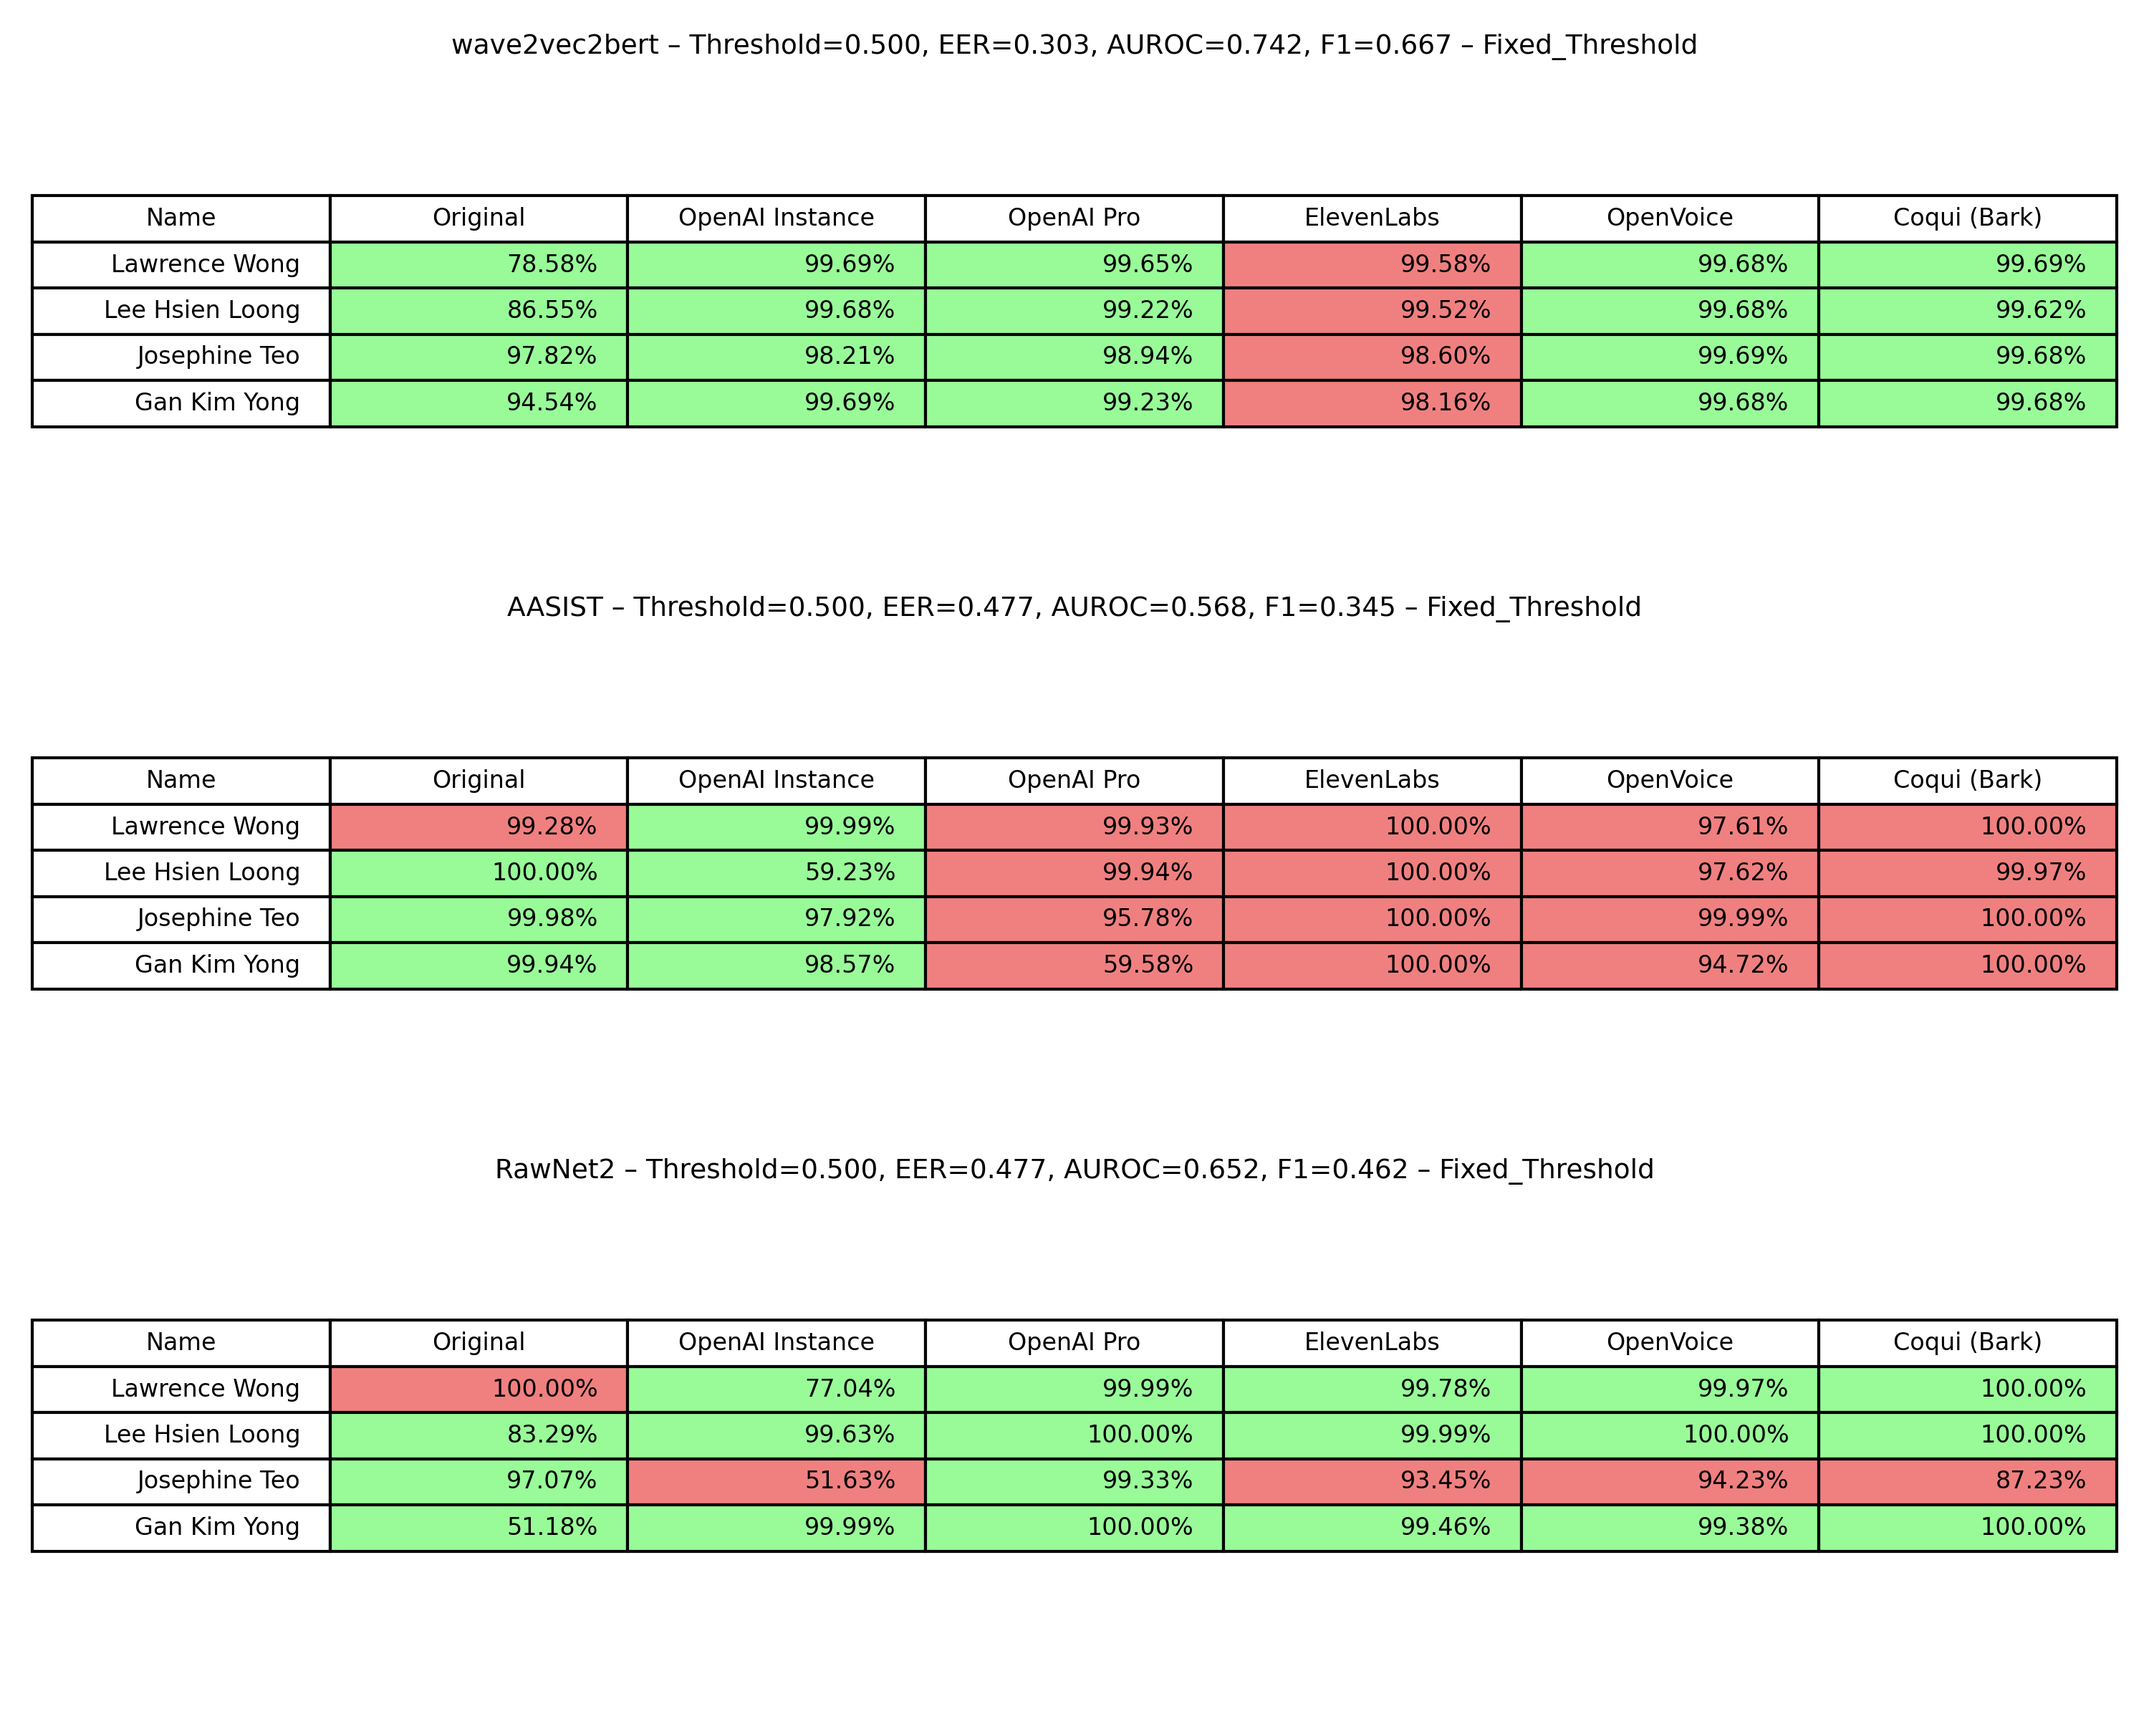
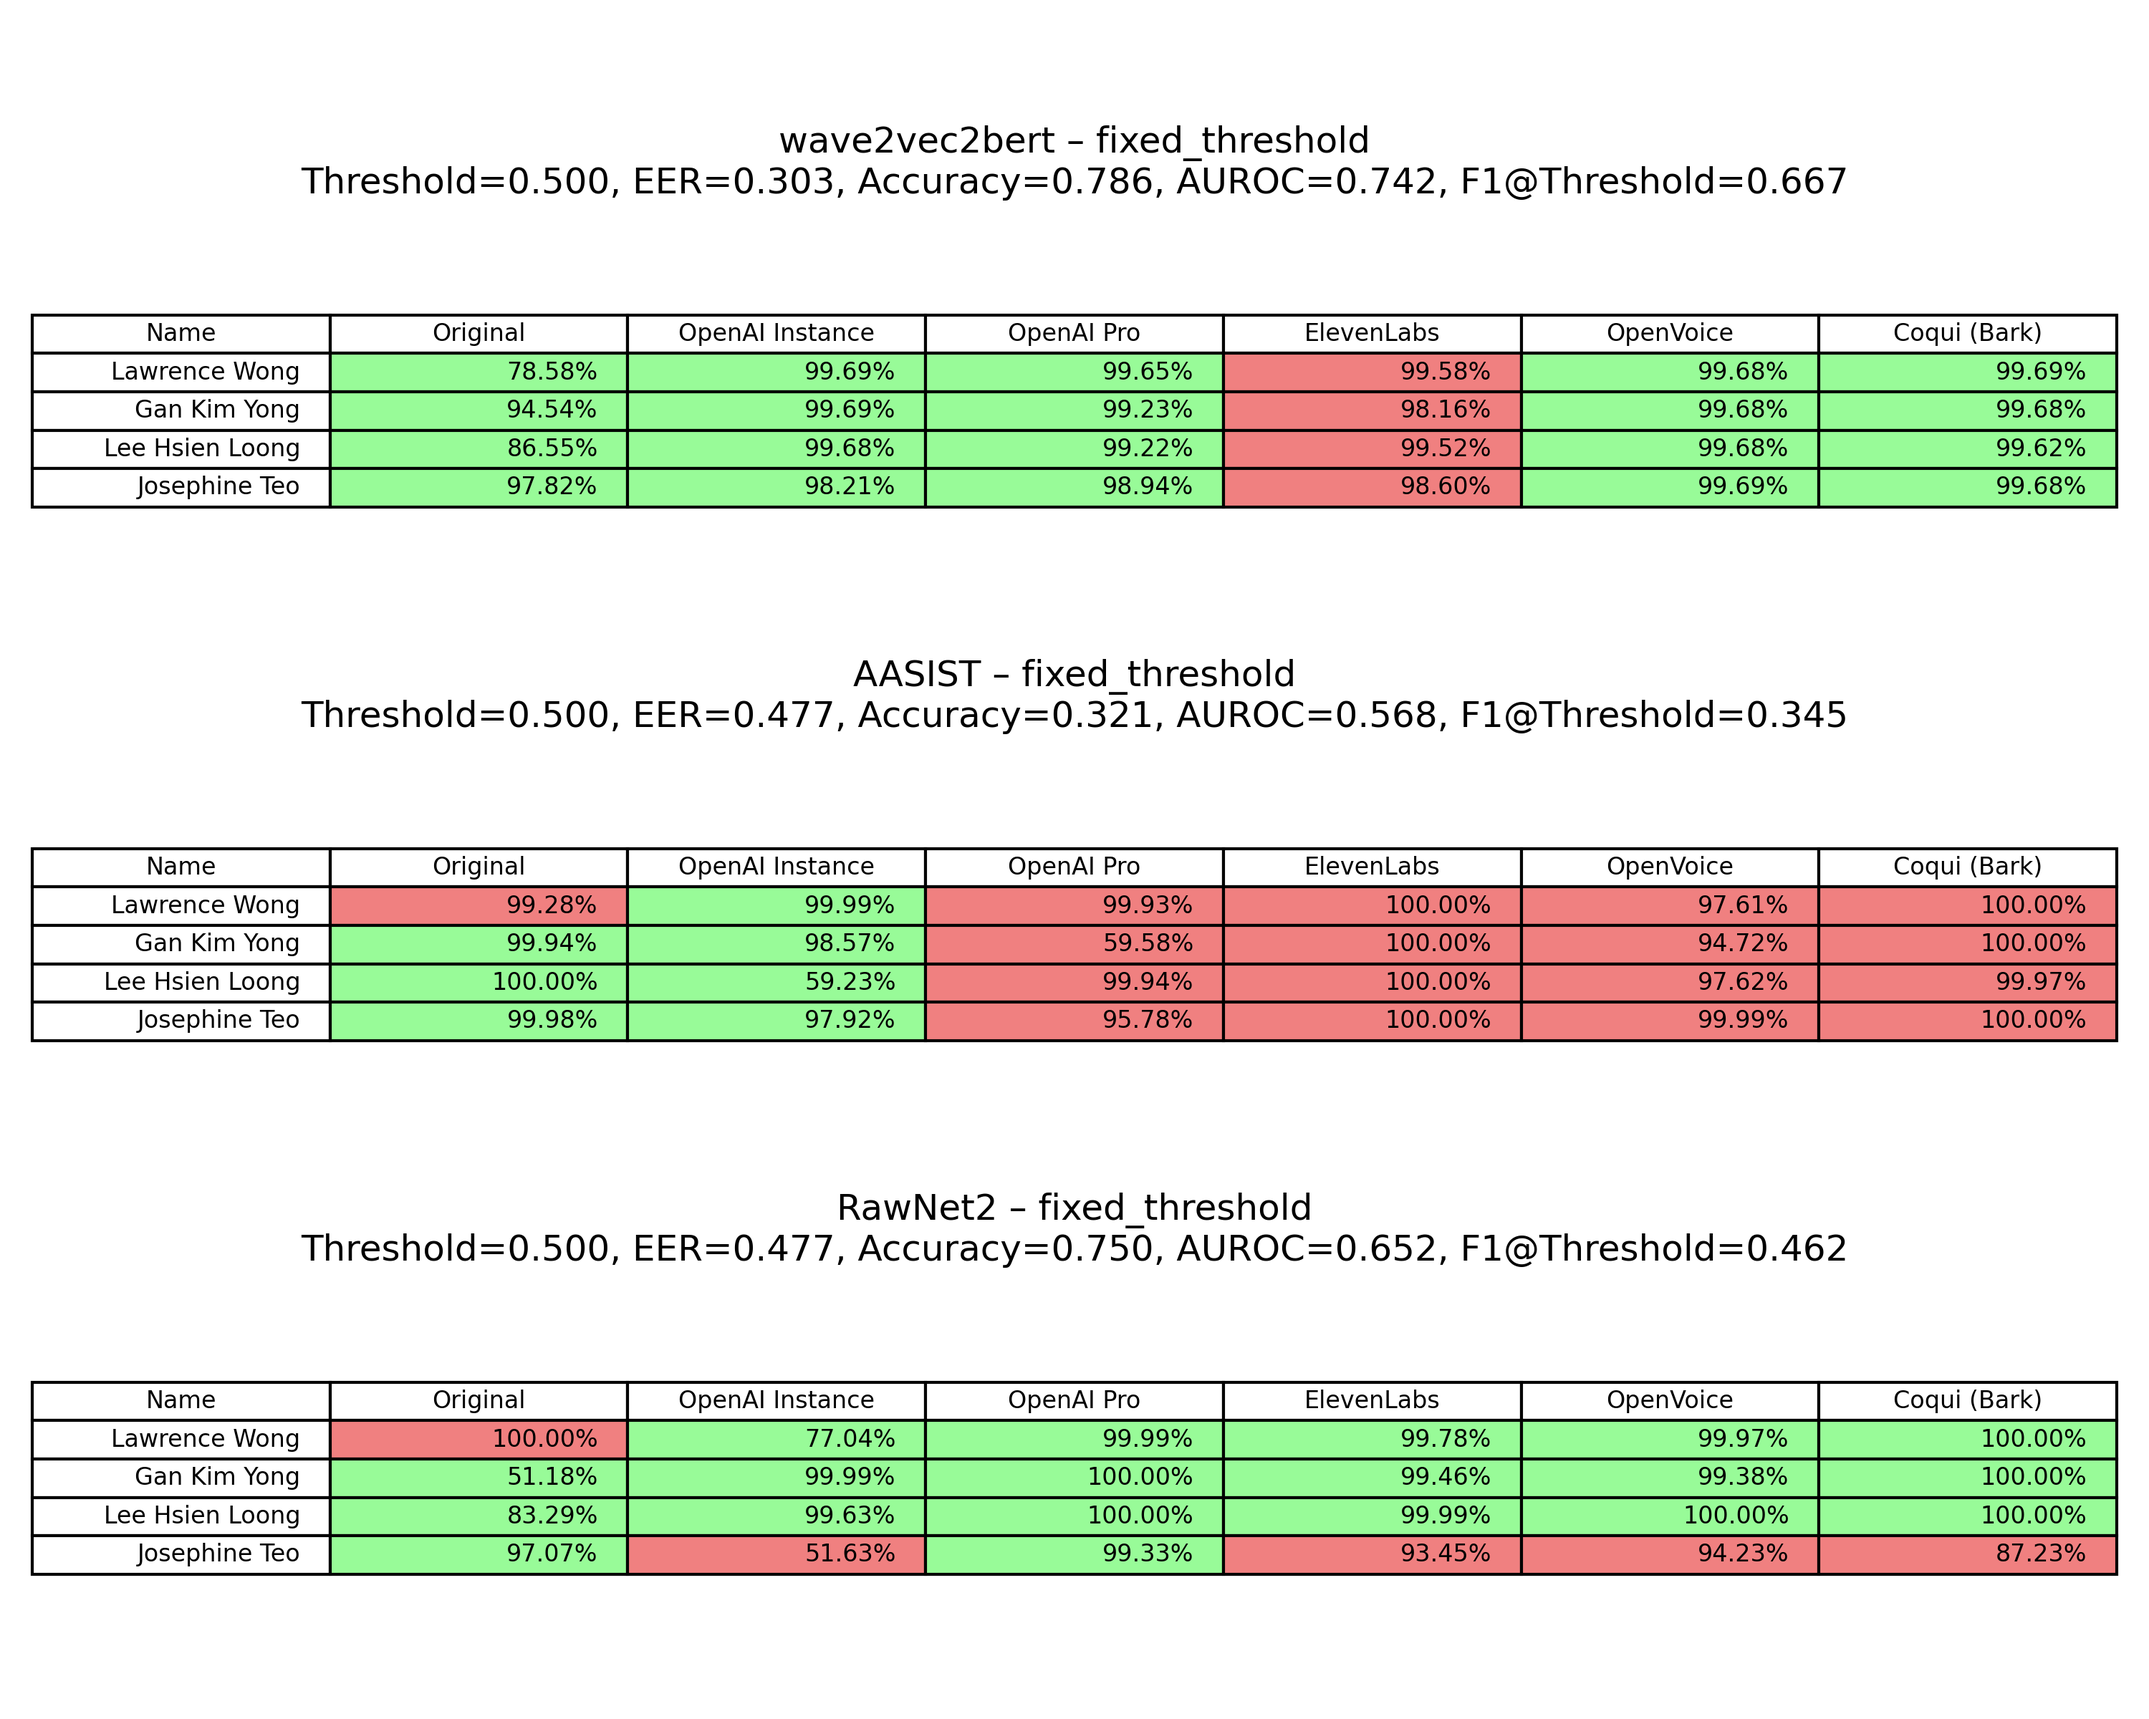
table formatting

diff --git a/zihe_eval.py b/zihe_eval.py
@@ -9,7 +9,7 @@ from torch.utils.data import Dataset, DataLoader
 from transformers import AutoFeatureExtractor
 import numpy as np
 from tqdm import tqdm
-from sklearn.metrics import roc_auc_score, f1_score  # ← added f1_score
+from sklearn.metrics import roc_auc_score, f1_score, accuracy_score
 import torch.nn.functional as F
 
 # Import existing modules
@@ -590,6 +590,7 @@ def _build_block(title, threshold_type, eer, thr, file_paths, preds, probs, labe
     # --- Compute overall AUROC and F1 for this model -------------------------
     auroc = roc_auc_score(labels, probs)
     f1 = f1_score(labels, preds)
+    acc = accuracy_score(labels, preds)  # ← compute accuracy
 
     data = {sid: defaultdict(list) for sid in _SPK}
     correct = {sid: defaultdict(list) for sid in _SPK}
@@ -611,6 +612,7 @@ def _build_block(title, threshold_type, eer, thr, file_paths, preds, probs, labe
         "threshold": float(thr),
         "auroc": float(auroc),  # ← added
         "f1": float(f1),  # ← added
+        "acc": float(acc),
         "data": {
             sid: {
                 m: (float(np.mean(vals)), bool(all(correct[sid][m])))
@@ -669,27 +671,34 @@ def _canon(m: str) -> str:
 def plot_result_tables(result_blocks, outfile: str = "tables.png") -> None:
     """
     Draw one coloured table per *result_blocks* element (see _build_block()).
-    Header now shows AUROC and F1 as requested.
+
+    Figure title  : “Results and Confidence Scores”
+    Row order     : Lawrence Wong, Gan Kim Yong, Lee Hsien Loong, Josephine Teo
+    Heading lines :   {model_name} – {threshold_type}
+                      Thr={thr:.3f}, EER={eer:.3f}, AUROC={auroc:.3f}, F1@Thr={f1:.3f}
     """
-    speakers = ("lw", "lhl", "jt", "gky")
+    import matplotlib.pyplot as plt
+
+    # ── 1. CONFIG ────────────────────────────────────────────────────────────
+    speakers = ("lw", "gky", "lhl", "jt")  # ← reordered to match screenshot
+
+    # ── 2. CREATE FIGURE ─────────────────────────────────────────────────────
     n = len(result_blocks)
     fig, axs = plt.subplots(n, 1, figsize=(10, 2 + 2 * n))
-    if n == 1:  # make iterable for n=1
-        axs = (axs,)
+    if n == 1:
+        axs = (axs,)  # make iterable for single-row case
 
+    # ── 3. ONE TABLE PER RESULT BLOCK ───────────────────────────────────────
     for ax, blk in zip(axs, result_blocks):
-        # ---- build cell texts & colours --------------------------------------
+        # ---------- build cell text & colours --------------------------------
         header = ["Name"] + [_METHOD_LABELS[c] for c in _METHOD_ORDER]
-        cell_txt = []
-        cell_col = []
+        cell_txt, cell_col = [], []
 
         for sid in speakers:
             row_txt = [_DISPLAY_NAME[sid]]
-            row_col = ["white"]  # first column fixed white
+            row_col = ["white"]  # first cell (names) is white
 
-            # scan canonical methods in requested order
             for code in _METHOD_ORDER:
-                # locate the first recorded entry whose canonical code matches
                 entry = next(
                     (
                         v
@@ -698,10 +707,10 @@ def plot_result_tables(result_blocks, outfile: str = "tables.png") -> None:
                     ),
                     None,
                 )
-                if entry is None:  # missing → grey cell
+                if entry is None:  # missing entry → grey cell
                     row_txt.append("")
                     row_col.append("lightgrey")
-                else:  # present → coloured by correctness
+                else:  # entry present
                     score, correct = entry
                     row_txt.append(f"{score * 100:.2f}%")
                     row_col.append("palegreen" if correct else "lightcoral")
@@ -709,26 +718,33 @@ def plot_result_tables(result_blocks, outfile: str = "tables.png") -> None:
             cell_txt.append(row_txt)
             cell_col.append(row_col)
 
-        # ---- render the table ------------------------------------------------
+        # ---------- render the table -----------------------------------------
         tbl = ax.table(
-            cellText=cell_txt, colLabels=header, cellColours=cell_col, loc="center"
+            cellText=cell_txt,
+            colLabels=header,
+            cellColours=cell_col,
+            loc="center",
         )
         tbl.auto_set_font_size(False)
         tbl.set_fontsize(8)
         ax.axis("off")
 
-        # ---- compact, reformatted heading ------------------------------------
-        ttl = (
+        # ---------- two-line subplot title -----------------------------------
+        title_line1 = (
             f"{blk['title']} – "
+            f"{'fixed_threshold' if blk['threshold_type'] == 'fixed' else 'eer_threshold'}"
+        )
+        title_line2 = (
             f"Threshold={blk['threshold']:.3f}, "
             f"EER={blk['eer']:.3f}, "
-            f"AUROC={blk.get('auroc', 0):.3f}, "  # ← added
-            f"F1={blk.get('f1', 0):.3f} – "  # ← added
-            f"{'Fixed_Threshold' if blk['threshold_type'] == 'fixed' else 'EER_Threshold'}"
+            f"Accuracy={blk.get('acc', 0):.3f}, "
+            f"AUROC={blk.get('auroc', 0):.3f}, "
+            f"F1@Threshold={blk.get('f1', 0):.3f}"
         )
-        ax.set_title(ttl, pad=2, fontsize=9)  # pad ↓ keeps title close to table
+        ax.set_title(f"{title_line1}\n{title_line2}", pad=3, fontsize=12)
 
-    plt.tight_layout()
+    # ── 4. SAVE FIGURE ───────────────────────────────────────────────────────
+    plt.tight_layout(rect=[0, 0, 1, 0.95])  # leave room for suptitle
     plt.savefig(outfile, dpi=300)
     print(f"[plot_result_tables] saved coloured tables → {outfile}")
 
